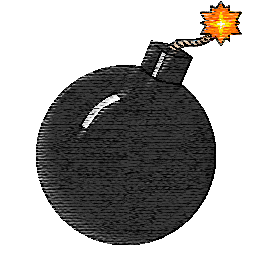
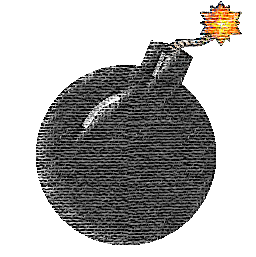
Gestion du Shield dans update Player + ajout image

Changed region(s): [[0.125, 0.0, 0.9375, 0.965]]

diff --git a/Java/src/game/Entity.java b/Java/src/game/Entity.java
@@ -18,7 +18,8 @@ public abstract class Entity {
 
     @objid ("46bbc37c-9300-456a-87b3-a7774a36e395")
      double speed = 0;
-     protected double speedMax = 50; //TODO changer la valeur
+     protected double SPEEDMAX = 50; //TODO changer la valeur
+     protected double SPEEDMIN = 5; //TODO changer la valeur
     @objid ("83945ddf-99e1-4a55-8f7c-5f7a2c89a534")
      World world;
 
@@ -48,12 +49,12 @@ public abstract class Entity {
 
     @objid ("78c63e54-9035-40d2-ae0a-99cdbbcc8788")
     void setX(double value) {
-        if(value >= world.getMap().getTileSize()/2. &&
-           value < world.getMap().getWidth()-(world.getMap().getTileSize()/2.)) {
-            this.x = value;
-        } else {
-            throw new RuntimeException("x = " + value + " can't be outside of the map");
-        }
+    	if(value >= world.getMap().getTileSize()/2. &&
+    	   value < world.getMap().getWidth()-(world.getMap().getTileSize()/2.)) {
+    		this.x = value;
+    	} else {
+    		throw new RuntimeException("x = " + value + " can't be outside of the map");
+    	}
     }
 
     @objid ("9c402d71-f604-49ca-ac91-079aa3515974")
@@ -66,9 +67,9 @@ public abstract class Entity {
         if(value >= world.getMap().getTileSize()/2. &&
            value < world.getMap().getHeight()-(world.getMap().getTileSize()/2.)) {
              this.y = value;
-        } else {
-            throw new RuntimeException("y = " + value + " can't be outside of the map");
-        }
+    	} else {
+    		throw new RuntimeException("y = " + value + " can't be outside of the map");
+    	}
     }
 
     @objid ("002e3653-fdf9-4157-9a2b-ffcf9d5fc685")
@@ -78,11 +79,11 @@ public abstract class Entity {
 
     @objid ("00edac08-fa82-4b44-aa6f-c993f59649f3")
     void setSpeed(double value) {
-        if(value >= 0){
-            this.speed = value;
-        } else {
-            throw new RuntimeException("Speed can't be negative");
-        }
+    	if(value >= 0){
+    		this.speed = value;
+    	} else {
+    		throw new RuntimeException("Speed can't be negative");
+    	}
     }
 
     @objid ("b37c2cf9-7059-4677-bd3a-15fe9a906e34")
@@ -94,21 +95,7 @@ public abstract class Entity {
     void setDirection(Direction value) {
         this.direction = value;
     }
-
-    @objid ("a2924691-b5ff-4b3e-9a94-659f2e120988")
-    void update() {
-        double step = this.speed;
-        //Tant que on percute quelque chose et que notre pas est plus grand ou égal à 1 pixel
-        while (canCollide(getNextBorderX(step), getNextBorderY(step)) && step >= 1) {
-            step -= 1.; //On avance 1 pixel moins loin
-        }
-        
-        //TODO : approche dichotomique ?
-        
-        updatePosition(step);
-    }
-
-    @objid ("194c3447-8cdc-4a73-bb7e-0541df7f17d7")
+    
     private double getNextBorderX(double step) {
         switch (direction) {
             case Left:
@@ -119,8 +106,7 @@ public abstract class Entity {
                 return this.x;
         }
     }
-
-    @objid ("95953d18-28d5-49c4-a969-768a38407ff1")
+    
     private double getNextBorderY(double speed) {
         switch (direction) {
             case Up:
@@ -131,8 +117,7 @@ public abstract class Entity {
                 return this.y;
         }
     }
-
-    @objid ("30b55b46-96bb-4d8b-9810-6ccdaa97d7db")
+    
     private void updatePosition(double step) {
         switch (direction) {
         case Left:
@@ -149,11 +134,24 @@ public abstract class Entity {
             break;
         }
     }
-
-    @objid ("94f5132c-0a18-4827-bebd-451cd306edff")
-    boolean canCollide(double x, double y) {
+    
+    
+    boolean canCollide(double x, double y){
         //Il faut aussi vérifier la collision dans les sous classes
         return this.world.getMap().isCollidable(x, y);
+    }
+
+    @objid ("a2924691-b5ff-4b3e-9a94-659f2e120988")
+    void update() {
+        double step = this.speed;
+        //Tant que on percute quelque chose et que notre pas est plus grand ou égal à 1 pixel
+        while (canCollide(getNextBorderX(step), getNextBorderY(step)) && step >= 1) {
+            step -= 1.; //On avance 1 pixel moins loin
+        }
+        
+        //TODO : approche dichotomique ?
+        
+        updatePosition(step);
     }
 
 }

diff --git a/Java/src/game/Player.java b/Java/src/game/Player.java
@@ -166,21 +166,33 @@ public class Player extends Entity {
         //Méthode nouvelle
         this.invulnerability = Math.max(0, this.invulnerability-1);
     }
+    
+    boolean canCollide(double x, double y){
+        return false;
+    }
 
     @objid ("83716caf-4650-4a93-b6e4-a9f241a25c9c")
     void update() {
+        
         super.update();
         
         //Update acquisition Bonus/Malus (Random, More/Less Bomb, More/Less Range, More/Less Speed, Shield, Kick)
         updateBonusMalus();
         
-        //Update Marche sur une case en Explosion (diminuer le nb de vie du joueur touché)
+        //Update Marche sur une case en Explosion (diminuer le nb de vie du joueur touché + vérification du Shield)
+        
         if(this.world.getMap().isExploding(this.x, this.y) && getInvulnerability() == 0){ // On vérifie si la case où se trouve le CENTRE du joueur explose et qu'il n'est pas invulnérable
-            decreaseLives(); //Perte d'une vie si les conditions sont vérifiées
-            this.invulnerability = 100; //Pour pas que le joueur perde des vies en continue en marchant sur une case qui explose, Chiffre à changer
-        } else {
-            decreaseInvulnerability(); // On diminue progressivement l'invulnérabilité pour ramener à 0; ici toute les 100 update, à affinner;
+            if(playerAbilities.get(PlayerAbility.Shield.ordinal()) == true){
+                playerAbilities.set(PlayerAbility.Shield.ordinal(), false); // On enlève le Shield
+                setInvulnerability(100); // TODO Changer la valeur si nécessaire, Pareil en dessous
+            } else {
+                decreaseLives(); //Perte d'une vie si les conditions sont vérifiées
+                setInvulnerability(100); //Pour pas que le joueur perde des vies en continue en marchant sur une case qui explose, Chiffre à changer
+            }
         }
+        
+        decreaseInvulnerability(); // On diminue progressivement l'invulnérabilité pour ramener à 0; ici toute les 100 update, à affinner;
+        
         
         // Vérifier si le joueur est encore vivant
         if(isAlive() == false){
